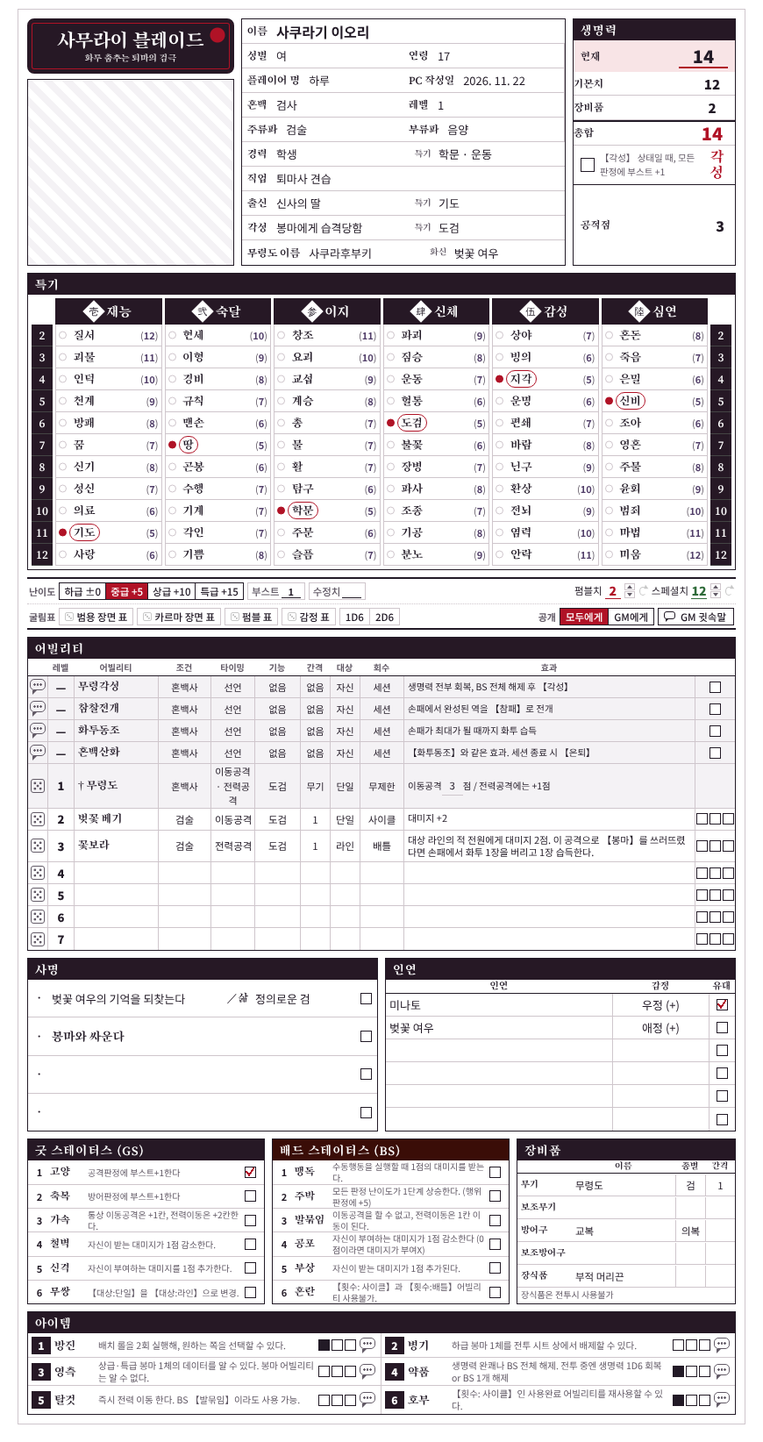
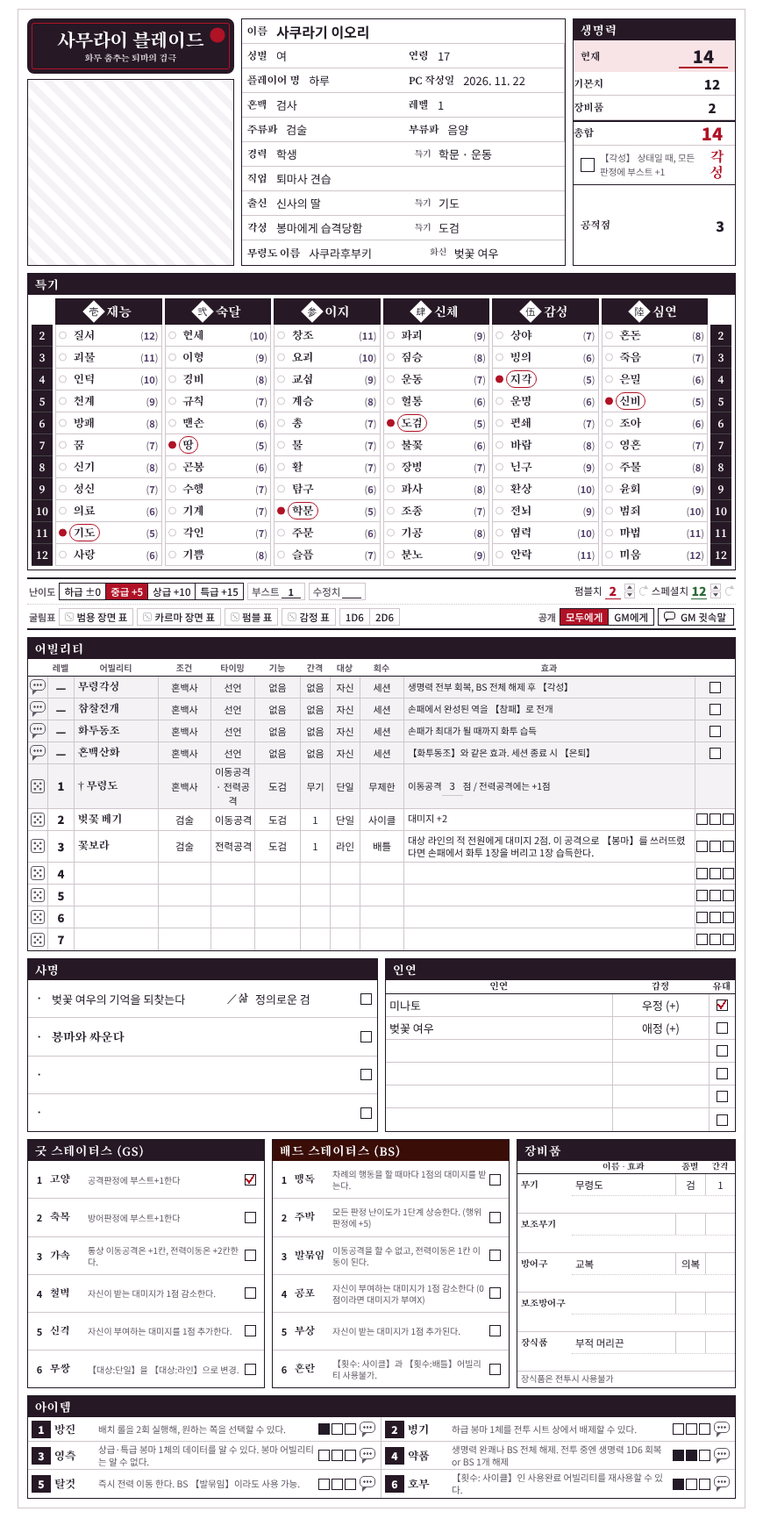
Samurai Blade: match the rulebook character sheet (pp.113-144)
- Life base follows the level (p.113); equipment rows get the effect field of the official sheet
- Bad status poison wording: on each turn action (手番の行動)
- Blade attack asks move or full attack and shows the damage (full +1, Divine Strike +1, Fear -1, never below 0); the weapon type is the skill when the skill field is empty (p.142)
- OPEN_QUESTIONS: the check rules (sixes, boost, special/fumble, defense) still need the rules pages; tests 49 pass

Claude-Session: https://claude.ai/code/session_0199V9dAANERLdNjnvpJJAzb

Changed region(s): [[0.031, 0.0, 0.9621, 0.9927]]

diff --git a/samuraiblade/roll20/sheet/samuraiblade.html b/samuraiblade/roll20/sheet/samuraiblade.html
@@ -132,7 +132,7 @@
 <div class="sr2"><i>6</i><b>무쌍</b><span>【대상:단일】을 【대상:라인】으로 변경.</span><input type="checkbox" class="ck" name="attr_gs6" value="1" title="무쌍"></div>
     </div></div>
     <div class="bx st bs"><div class="hb">배드 스테이터스 (BS)</div><div class="rows">
-<div class="sr2"><i>1</i><b>맹독</b><span>수동행동을 실행할 때 1점의 대미지를 받는다.</span><input type="checkbox" class="ck" name="attr_bs1" value="1" title="맹독"></div>
+<div class="sr2"><i>1</i><b>맹독</b><span>차례의 행동을 할 때마다 1점의 대미지를 받는다.</span><input type="checkbox" class="ck" name="attr_bs1" value="1" title="맹독"></div>
 <div class="sr2"><i>2</i><b>주박</b><span>모든 판정 난이도가 1단계 상승한다. (행위판정에 +5)</span><input type="checkbox" class="ck" name="attr_bs2" value="1" title="주박"></div>
 <div class="sr2"><i>3</i><b>발묶임</b><span>이동공격을 할 수 없고, 전력이동은 1칸 이동이 된다.</span><input type="checkbox" class="ck" name="attr_bs3" value="1" title="발묶임"></div>
 <div class="sr2"><i>4</i><b>공포</b><span>자신이 부여하는 대미지가 1점 감소한다 (0점이라면 대미지가 부여X)</span><input type="checkbox" class="ck" name="attr_bs4" value="1" title="공포"></div>
@@ -141,12 +141,12 @@
     </div></div>
     <div class="bx eq">
       <div class="hb">장비품</div>
-      <div class="qh"><span></span><span>이름</span><span>종별</span><span>간격</span></div>
-<div class="qr"><b>무기</b><input type="text" name="attr_eq1_name" title="무기"><input type="text" class="s" name="attr_eq1_type" title="종별"><input type="text" class="s" name="attr_eq1_range" title="간격"></div>
-<div class="qr"><b>보조무기</b><input type="text" name="attr_eq2_name" title="보조무기"><input type="text" class="s" name="attr_eq2_type" title="종별"><input type="text" class="s" name="attr_eq2_range" title="간격"></div>
-<div class="qr"><b>방어구</b><input type="text" name="attr_eq3_name" title="방어구"><input type="text" class="s" name="attr_eq3_type" title="종별"><input type="text" class="s" name="attr_eq3_range" title="간격"></div>
-<div class="qr"><b>보조방어구</b><input type="text" name="attr_eq4_name" title="보조방어구"><input type="text" class="s" name="attr_eq4_type" title="종별"><input type="text" class="s" name="attr_eq4_range" title="간격"></div>
-<div class="qr"><b>장식품</b><input type="text" name="attr_eq5_name" title="장식품"><input type="text" class="s" name="attr_eq5_type" title="종별"><input type="text" class="s" name="attr_eq5_range" title="간격"></div>
+      <div class="qh"><span></span><span>이름 · 효과</span><span>종별</span><span>간격</span></div>
+<div class="qr"><b>무기</b><input type="text" name="attr_eq1_name" title="무기"><input type="text" class="s" name="attr_eq1_type" title="종별"><input type="text" class="s" name="attr_eq1_range" title="간격"><input type="text" class="ef" name="attr_eq1_effect" title="무기 효과"></div>
+<div class="qr"><b>보조무기</b><input type="text" name="attr_eq2_name" title="보조무기"><input type="text" class="s" name="attr_eq2_type" title="종별"><input type="text" class="s" name="attr_eq2_range" title="간격"><input type="text" class="ef" name="attr_eq2_effect" title="보조무기 효과"></div>
+<div class="qr"><b>방어구</b><input type="text" name="attr_eq3_name" title="방어구"><input type="text" class="s" name="attr_eq3_type" title="종별"><input type="text" class="s" name="attr_eq3_range" title="간격"><input type="text" class="ef" name="attr_eq3_effect" title="방어구 효과"></div>
+<div class="qr"><b>보조방어구</b><input type="text" name="attr_eq4_name" title="보조방어구"><input type="text" class="s" name="attr_eq4_type" title="종별"><input type="text" class="s" name="attr_eq4_range" title="간격"><input type="text" class="ef" name="attr_eq4_effect" title="보조방어구 효과"></div>
+<div class="qr"><b>장식품</b><input type="text" name="attr_eq5_name" title="장식품"><input type="text" class="s" name="attr_eq5_type" title="종별"><input type="text" class="s" name="attr_eq5_range" title="간격"><input type="text" class="ef" name="attr_eq5_effect" title="장식품 효과"></div>
 <div class="qr qn">장식품은 전투시 사용불가</div>
     </div>
   </div>
@@ -167,6 +167,7 @@
 <!-- 채팅 카드: 화투패 모양. 흰 바탕 · 먹보라 테 · 안쪽 진홍 테 · 머리띠 오른쪽 붉은 해 · 명조 제목 · 겹테 주사위 · 낙관 도장.
      굴림은 sheet worker 가 startRoll 로 보내고 computed:: 칸은 finishRoll 로 채운다. computed 칸(ok · total · tres)은 매크로 앞쪽.
      판정: d1 · d2 (+ 부스트 d3~d8) + add = total | 도장 ok 1 스페셜 · 2 펌블 · 3 성공 · 4 실패 (0 이면 도장 없음)
+     무령도: dmg (dkind 이동공격 / 전력공격, dhow 계산) — 전력공격 +1, GS 신격 +1, BS 공포 −1 (0 이면 대미지 없음).
      표: te1(~te2) 와 결과(tres). nD6: n1~n2 = total. -->
 <rolltemplate class="sheet-rolltemplate-samuraiblade">
   <div class="sheet-card">
@@ -176,6 +177,7 @@
       {{#d1}}<div class="sheet-roll sheet-big"><span class="sheet-die">{{d1}}</span><span class="sheet-die">{{d2}}</span>{{#d3}}<span class="sheet-die">{{d3}}</span>{{/d3}}{{#d4}}<span class="sheet-die">{{d4}}</span>{{/d4}}{{#d5}}<span class="sheet-die">{{d5}}</span>{{/d5}}{{#d6}}<span class="sheet-die">{{d6}}</span>{{/d6}}{{#d7}}<span class="sheet-die">{{d7}}</span>{{/d7}}{{#d8}}<span class="sheet-die">{{d8}}</span>{{/d8}}{{#add}}<span class="sheet-eq">{{add}}</span>{{/add}}<span class="sheet-eq">=</span><span class="sheet-tot">{{computed::total}}</span>{{#rollTotal() computed::ok 1}}<span class="sheet-stp sheet-spc">스페셜</span>{{/rollTotal() computed::ok 1}}{{#rollTotal() computed::ok 2}}<span class="sheet-stp sheet-fb">펌블</span>{{/rollTotal() computed::ok 2}}{{#rollTotal() computed::ok 3}}<span class="sheet-stp">성공</span>{{/rollTotal() computed::ok 3}}{{#rollTotal() computed::ok 4}}<span class="sheet-stp sheet-ng">실패</span>{{/rollTotal() computed::ok 4}}</div>{{/d1}}
       {{#te1}}<div class="sheet-rt"><span class="sheet-die">{{te1}}</span>{{#te2}}<span class="sheet-die">{{te2}}</span>{{/te2}}<span class="sheet-rtx">{{computed::tres}}</span></div>{{/te1}}
       {{#n1}}<div class="sheet-roll"><span class="sheet-die">{{n1}}</span>{{#n2}}<span class="sheet-die">{{n2}}</span>{{/n2}}<span class="sheet-eq">=</span><span class="sheet-tot">{{computed::total}}</span></div>{{/n1}}
+      {{#dmg}}<div class="sheet-dmg">{{computed::dkind}} 대미지<b>{{computed::dmg}}</b>점{{#dhow}} <span class="sheet-sub">{{computed::dhow}}</span>{{/dhow}}</div>{{/dmg}}
       {{#note}}<div class="sheet-note">{{note}}</div>{{/note}}
       {{#eff}}<div class="sheet-eff">{{eff}}</div>{{/eff}}
       {{#plain}}<div class="sheet-plain">{{plain}}</div>{{/plain}}
@@ -225,7 +227,8 @@ const calcTargets = () => getAttrs(SKILL_IDS, v => {
 });
 on([...SKILL_IDS.map(k => `change:${k.toLowerCase()}`), 'sheet:opened'].join(' '), calcTargets);
 
-// ── 생명력 총합 = 기본치 + 장비품
+// ── 생명력 기본치 = 레벨 (룰북 113쪽 ⑨, 레벨이 바뀌면 다시 맞춤 · 그 뒤 손으로 고쳐도 됨) · 총합 = 기본치 + 장비품
+on('change:level', () => getAttrs(['level'], v => { const lv = num(v.level); if (lv != null) setAttrs({ hp_base: lv }); }));
 on('change:hp_base change:hp_equip sheet:opened', () => getAttrs(['hp_base', 'hp_equip'], v => {
   const b = num(v.hp_base), e = num(v.hp_equip);
   setAttrs({ hp_max: b == null && e == null ? '' : (b || 0) + (e || 0) }, { silent: true });
@@ -267,7 +270,8 @@ const withCtx = (extra, cb) => getAttrs([...CTX, ...extra], v => cb(v, targets(v
 
 // 판정: 2D6 + 부스트 1 마다 1D6, 모두 더함. 처음 두 주사위 합 ≥ 스페셜치 → 스페셜, ≤ 펌블치 → 펌블, 아니면 합 + 수정이 목표치 이상이면 성공.
 // 목표치 = 기본 목표치 + 난이도 (BS 주박이면 한 단계 위). 【각성】 부스트 +1, 공격(타이밍에 '공격') 때 GS 고양 부스트 +1
-function check(v, T, { title, id, attack = false, eff, head }) {
+//   blade: 무령도 공격 — 이동 / 전력을 묻고 대미지를 계산 (dmg · dkind · dhow)
+function check(v, T, { title, id, attack = false, eff, head, blade }) {
   const p = pos(id), base = T[id];
   const sel = [0, 5, 10, 15].includes(num(v.dif)) ? num(v.dif) : 0, curse = on1(v.bs2) ? 5 : 0, dif = Math.min(15, sel + curse);
   const boost = Math.max(0, num(v.boost) || 0) + (on1(v.awakened) ? 1 : 0) + (attack && on1(v.gs1) ? 1 : 0);
@@ -276,10 +280,21 @@ function check(v, T, { title, id, attack = false, eff, head }) {
     fb !== 2 && `펌블치 ${fb}`, sp !== 12 && `스페셜치 ${sp}`].filter(Boolean).join(' · ');
   const notes = [curse && 'BS 주박 · 난이도 한 단계 위', on1(v.awakened) && '각성 · 부스트 +1', attack && on1(v.gs1) && 'GS 고양 · 부스트 +1'].filter(Boolean).join(' / ');
   const ks = Array.from({ length: nd }, (_, i) => `d${i + 1}`);
-  const s = `${prefix(v)}${TPL} {{ok=[[0]]}} {{total=[[0]]}} ${ks.map(k => `{{${k}=[[1d6]]}}`).join(' ')}${m ? field('add', sgn(m)) : ''}${field('title', title)}${field('sub', sub)}${field('note', notes)}${field('eff', eff)}`;
+  const bq = blade ? ' {{dmg=[[0]]}} {{dkind=[[0]]}} {{dhow=[[0]]}} {{full=[[?{공격|이동공격,0|전력공격 (대미지 +1),1}]]}}' : '';
+  const s = `${prefix(v)}${TPL} {{ok=[[0]]}} {{total=[[0]]}}${bq} ${ks.map(k => `{{${k}=[[1d6]]}}`).join(' ')}${m ? field('add', sgn(m)) : ''}${field('title', title)}${field('sub', sub)}${field('note', notes)}${field('eff', eff)}`;
   post(s, R => {
     const two = R.d1.result + R.d2.result, tot = ks.reduce((a, k) => a + R[k].result, 0) + m;
-    return { ok: two >= sp ? 1 : two <= fb ? 2 : t == null ? 0 : tot >= t ? 3 : 4, total: tot };
+    const out = { ok: two >= sp ? 1 : two <= fb ? 2 : t == null ? 0 : tot >= t ? 3 : 4, total: tot };
+    if (blade) {
+      const full = R.full.result === 1, parts = [`무기 ${blade.base}`];
+      let d = blade.base + (full ? 1 : 0) + (blade.gs5 ? 1 : 0) - (blade.bs4 ? 1 : 0);
+      if (full) parts.push('전력 +1');
+      if (blade.gs5) parts.push('GS 신격 +1');
+      if (blade.bs4) parts.push('BS 공포 −1');
+      d = Math.max(0, d);
+      Object.assign(out, { dmg: d, dkind: full ? '전력공격' : '이동공격', dhow: parts.length > 1 ? `(${parts.join(' ')})` : '' });
+    }
+    return out;
   });
 }
 
@@ -300,10 +315,12 @@ for (let lv = 2; lv <= 7; lv++) {
     check(v, T, { title: `【${nm}】`, id: s.id, attack: /공격/.test(tim), eff: v[`ab${lv}_effect`], head: [tim, `《${sk}》`].filter(Boolean).join(' · ') });
   }));
 }
-on('clicked:mr', () => withCtx(['mr_skill', 'mr_dmg'], (v, T) => {
-  const sk = (v.mr_skill || '').replace(/[《》]/g, '').trim(), s = findSkill(sk), d = (v.mr_dmg || '').trim(), eff = `이동공격 ${d || '　'}점 / 전력공격에는 +1점`;
+// 【† 무령도】 (룰북 142쪽): 장비한 무령도의 【종별】 특기로 공격 — 기능 칸이 비면 장비품 「무기」의 종별을 쓴다.
+//   이동공격은 무령도 대미지, 전력공격은 +1점
+on('clicked:mr', () => withCtx(['mr_skill', 'mr_dmg', 'eq1_type', 'gs5', 'bs4'], (v, T) => {
+  const sk = ((v.mr_skill || '').trim() || (v.eq1_type || '').trim()).replace(/[《》]/g, ''), s = findSkill(sk), d = (v.mr_dmg || '').trim(), eff = `이동공격 ${d || '　'}점 / 전력공격에는 +1점`;
   if (!s) return info(v, { title: '【† 무령도】', sub: '이동공격 · 전력공격', eff });
-  check(v, T, { title: '【† 무령도】', id: s.id, attack: true, eff, head: `이동공격 · 전력공격 · 《${sk}》` });
+  check(v, T, { title: '【† 무령도】', id: s.id, attack: true, eff, head: `이동공격 · 전력공격 · 《${sk}》`, blade: { base: Math.max(0, num(d) || 0), gs5: on1(v.gs5), bs4: on1(v.bs4) } });
 }));
 PRINTED.forEach(([n, cond, tim, tgt, cnt, ef], i) => on(`clicked:pab${i + 1}`, () => getAttrs(['roll_display_to'], v => info(v, { title: `【${n}】`, sub: `조건 ${cond} · 타이밍 ${tim} · 대상 ${tgt} · 회수 ${cnt}`, eff: ef }))));
 

diff --git a/samuraiblade/roll20/src/worker.js b/samuraiblade/roll20/src/worker.js
@@ -40,7 +40,8 @@ const calcTargets = () => getAttrs(SKILL_IDS, v => {
 });
 on([...SKILL_IDS.map(k => `change:${k.toLowerCase()}`), 'sheet:opened'].join(' '), calcTargets);
 
-// ── 생명력 총합 = 기본치 + 장비품
+// ── 생명력 기본치 = 레벨 (룰북 113쪽 ⑨, 레벨이 바뀌면 다시 맞춤 · 그 뒤 손으로 고쳐도 됨) · 총합 = 기본치 + 장비품
+on('change:level', () => getAttrs(['level'], v => { const lv = num(v.level); if (lv != null) setAttrs({ hp_base: lv }); }));
 on('change:hp_base change:hp_equip sheet:opened', () => getAttrs(['hp_base', 'hp_equip'], v => {
   const b = num(v.hp_base), e = num(v.hp_equip);
   setAttrs({ hp_max: b == null && e == null ? '' : (b || 0) + (e || 0) }, { silent: true });
@@ -82,7 +83,8 @@ const withCtx = (extra, cb) => getAttrs([...CTX, ...extra], v => cb(v, targets(v
 
 // 판정: 2D6 + 부스트 1 마다 1D6, 모두 더함. 처음 두 주사위 합 ≥ 스페셜치 → 스페셜, ≤ 펌블치 → 펌블, 아니면 합 + 수정이 목표치 이상이면 성공.
 // 목표치 = 기본 목표치 + 난이도 (BS 주박이면 한 단계 위). 【각성】 부스트 +1, 공격(타이밍에 '공격') 때 GS 고양 부스트 +1
-function check(v, T, { title, id, attack = false, eff, head }) {
+//   blade: 무령도 공격 — 이동 / 전력을 묻고 대미지를 계산 (dmg · dkind · dhow)
+function check(v, T, { title, id, attack = false, eff, head, blade }) {
   const p = pos(id), base = T[id];
   const sel = [0, 5, 10, 15].includes(num(v.dif)) ? num(v.dif) : 0, curse = on1(v.bs2) ? 5 : 0, dif = Math.min(15, sel + curse);
   const boost = Math.max(0, num(v.boost) || 0) + (on1(v.awakened) ? 1 : 0) + (attack && on1(v.gs1) ? 1 : 0);
@@ -91,10 +93,21 @@ function check(v, T, { title, id, attack = false, eff, head }) {
     fb !== 2 && `펌블치 ${fb}`, sp !== 12 && `스페셜치 ${sp}`].filter(Boolean).join(' · ');
   const notes = [curse && 'BS 주박 · 난이도 한 단계 위', on1(v.awakened) && '각성 · 부스트 +1', attack && on1(v.gs1) && 'GS 고양 · 부스트 +1'].filter(Boolean).join(' / ');
   const ks = Array.from({ length: nd }, (_, i) => `d${i + 1}`);
-  const s = `${prefix(v)}${TPL} {{ok=[[0]]}} {{total=[[0]]}} ${ks.map(k => `{{${k}=[[1d6]]}}`).join(' ')}${m ? field('add', sgn(m)) : ''}${field('title', title)}${field('sub', sub)}${field('note', notes)}${field('eff', eff)}`;
+  const bq = blade ? ' {{dmg=[[0]]}} {{dkind=[[0]]}} {{dhow=[[0]]}} {{full=[[?{공격|이동공격,0|전력공격 (대미지 +1),1}]]}}' : '';
+  const s = `${prefix(v)}${TPL} {{ok=[[0]]}} {{total=[[0]]}}${bq} ${ks.map(k => `{{${k}=[[1d6]]}}`).join(' ')}${m ? field('add', sgn(m)) : ''}${field('title', title)}${field('sub', sub)}${field('note', notes)}${field('eff', eff)}`;
   post(s, R => {
     const two = R.d1.result + R.d2.result, tot = ks.reduce((a, k) => a + R[k].result, 0) + m;
-    return { ok: two >= sp ? 1 : two <= fb ? 2 : t == null ? 0 : tot >= t ? 3 : 4, total: tot };
+    const out = { ok: two >= sp ? 1 : two <= fb ? 2 : t == null ? 0 : tot >= t ? 3 : 4, total: tot };
+    if (blade) {
+      const full = R.full.result === 1, parts = [`무기 ${blade.base}`];
+      let d = blade.base + (full ? 1 : 0) + (blade.gs5 ? 1 : 0) - (blade.bs4 ? 1 : 0);
+      if (full) parts.push('전력 +1');
+      if (blade.gs5) parts.push('GS 신격 +1');
+      if (blade.bs4) parts.push('BS 공포 −1');
+      d = Math.max(0, d);
+      Object.assign(out, { dmg: d, dkind: full ? '전력공격' : '이동공격', dhow: parts.length > 1 ? `(${parts.join(' ')})` : '' });
+    }
+    return out;
   });
 }
 
@@ -115,10 +128,12 @@ for (let lv = 2; lv <= 7; lv++) {
     check(v, T, { title: `【${nm}】`, id: s.id, attack: /공격/.test(tim), eff: v[`ab${lv}_effect`], head: [tim, `《${sk}》`].filter(Boolean).join(' · ') });
   }));
 }
-on('clicked:mr', () => withCtx(['mr_skill', 'mr_dmg'], (v, T) => {
-  const sk = (v.mr_skill || '').replace(/[《》]/g, '').trim(), s = findSkill(sk), d = (v.mr_dmg || '').trim(), eff = `이동공격 ${d || '　'}점 / 전력공격에는 +1점`;
+// 【† 무령도】 (룰북 142쪽): 장비한 무령도의 【종별】 특기로 공격 — 기능 칸이 비면 장비품 「무기」의 종별을 쓴다.
+//   이동공격은 무령도 대미지, 전력공격은 +1점
+on('clicked:mr', () => withCtx(['mr_skill', 'mr_dmg', 'eq1_type', 'gs5', 'bs4'], (v, T) => {
+  const sk = ((v.mr_skill || '').trim() || (v.eq1_type || '').trim()).replace(/[《》]/g, ''), s = findSkill(sk), d = (v.mr_dmg || '').trim(), eff = `이동공격 ${d || '　'}점 / 전력공격에는 +1점`;
   if (!s) return info(v, { title: '【† 무령도】', sub: '이동공격 · 전력공격', eff });
-  check(v, T, { title: '【† 무령도】', id: s.id, attack: true, eff, head: `이동공격 · 전력공격 · 《${sk}》` });
+  check(v, T, { title: '【† 무령도】', id: s.id, attack: true, eff, head: `이동공격 · 전력공격 · 《${sk}》`, blade: { base: Math.max(0, num(d) || 0), gs5: on1(v.gs5), bs4: on1(v.bs4) } });
 }));
 PRINTED.forEach(([n, cond, tim, tgt, cnt, ef], i) => on(`clicked:pab${i + 1}`, () => getAttrs(['roll_display_to'], v => info(v, { title: `【${n}】`, sub: `조건 ${cond} · 타이밍 ${tim} · 대상 ${tgt} · 회수 ${cnt}`, eff: ef }))));
 

diff --git a/samuraiblade/roll20/src/rolltemplate.html b/samuraiblade/roll20/src/rolltemplate.html
@@ -1,6 +1,7 @@
 <!-- 채팅 카드: 화투패 모양. 흰 바탕 · 먹보라 테 · 안쪽 진홍 테 · 머리띠 오른쪽 붉은 해 · 명조 제목 · 겹테 주사위 · 낙관 도장.
      굴림은 sheet worker 가 startRoll 로 보내고 computed:: 칸은 finishRoll 로 채운다. computed 칸(ok · total · tres)은 매크로 앞쪽.
      판정: d1 · d2 (+ 부스트 d3~d8) + add = total | 도장 ok 1 스페셜 · 2 펌블 · 3 성공 · 4 실패 (0 이면 도장 없음)
+     무령도: dmg (dkind 이동공격 / 전력공격, dhow 계산) — 전력공격 +1, GS 신격 +1, BS 공포 −1 (0 이면 대미지 없음).
      표: te1(~te2) 와 결과(tres). nD6: n1~n2 = total. -->
 <rolltemplate class="sheet-rolltemplate-samuraiblade">
   <div class="sheet-card">
@@ -10,6 +11,7 @@
       {{#d1}}<div class="sheet-roll sheet-big"><span class="sheet-die">{{d1}}</span><span class="sheet-die">{{d2}}</span>{{#d3}}<span class="sheet-die">{{d3}}</span>{{/d3}}{{#d4}}<span class="sheet-die">{{d4}}</span>{{/d4}}{{#d5}}<span class="sheet-die">{{d5}}</span>{{/d5}}{{#d6}}<span class="sheet-die">{{d6}}</span>{{/d6}}{{#d7}}<span class="sheet-die">{{d7}}</span>{{/d7}}{{#d8}}<span class="sheet-die">{{d8}}</span>{{/d8}}{{#add}}<span class="sheet-eq">{{add}}</span>{{/add}}<span class="sheet-eq">=</span><span class="sheet-tot">{{computed::total}}</span>{{#rollTotal() computed::ok 1}}<span class="sheet-stp sheet-spc">스페셜</span>{{/rollTotal() computed::ok 1}}{{#rollTotal() computed::ok 2}}<span class="sheet-stp sheet-fb">펌블</span>{{/rollTotal() computed::ok 2}}{{#rollTotal() computed::ok 3}}<span class="sheet-stp">성공</span>{{/rollTotal() computed::ok 3}}{{#rollTotal() computed::ok 4}}<span class="sheet-stp sheet-ng">실패</span>{{/rollTotal() computed::ok 4}}</div>{{/d1}}
       {{#te1}}<div class="sheet-rt"><span class="sheet-die">{{te1}}</span>{{#te2}}<span class="sheet-die">{{te2}}</span>{{/te2}}<span class="sheet-rtx">{{computed::tres}}</span></div>{{/te1}}
       {{#n1}}<div class="sheet-roll"><span class="sheet-die">{{n1}}</span>{{#n2}}<span class="sheet-die">{{n2}}</span>{{/n2}}<span class="sheet-eq">=</span><span class="sheet-tot">{{computed::total}}</span></div>{{/n1}}
+      {{#dmg}}<div class="sheet-dmg">{{computed::dkind}} 대미지<b>{{computed::dmg}}</b>점{{#dhow}} <span class="sheet-sub">{{computed::dhow}}</span>{{/dhow}}</div>{{/dmg}}
       {{#note}}<div class="sheet-note">{{note}}</div>{{/note}}
       {{#eff}}<div class="sheet-eff">{{eff}}</div>{{/eff}}
       {{#plain}}<div class="sheet-plain">{{plain}}</div>{{/plain}}

diff --git a/samuraiblade/roll20/test/test.js b/samuraiblade/roll20/test/test.js
@@ -29,6 +29,10 @@ const g = (s, ...ks) => ks.map(k => String(s.get(k)));
   // ── 생명력 총합
   s.set('hp_base', '12'); s.set('hp_equip', '2'); await s.settle();
   eq('hp total', g(s, 'hp_max'), ['14']);
+  s.set('level', '7'); await s.settle();
+  eq('level → life base (p.113)', g(s, 'hp_base', 'hp_max'), ['7', '9']);
+  eq('equipment effect fields', (HTML.match(/name="attr_eq\d_effect"/g) || []).length, 5);
+  eq('poison wording', /차례의 행동을 할 때마다 1점의 대미지/.test(HTML), true);
 
   // ── 판정: 난이도 · 부스트 · 각성 · 주박 · 고양
   s = makeSim(HTML, { dice: [5, 4, 3, 1, 1, 6, 6, 2, 3, 3, 3, 3, 4, 4, 4] }); s.open(); await s.settle();
@@ -89,6 +93,18 @@ const g = (s, ...ks) => ks.map(k => String(s.get(k)));
   s.click('nd2'); await s.settle();
   eq('2D6', last(s).computed, { total: 6 });
   eq('gm whisper roll button', /name="roll_gmw"[^>]*value="\/w gm &\{template:samuraiblade\} \{\{plain=\?\{GM 에게 귓속말\}\}\}"/.test(HTML), true);
+
+  // ── 무령도 (142쪽): 기능이 비면 무기 종별 · 이동/전력 · 신격/공포
+  s = makeSim(HTML, { dice: [4, 4, 3, 3], queries: { '공격': '1' } }); s.open(); await s.settle();
+  s.set('D6', '1'); s.set('eq1_type', '도검'); s.set('mr_dmg', '2'); s.set('gs5', '1'); await s.settle();
+  s.click('mr'); await s.settle();
+  has('blade falls back to weapon type', last(s).macro, '《도검》');
+  has('blade computed first', last(s).macro, '{{ok=[[0]]}} {{total=[[0]]}} {{dmg=[[0]]}} {{dkind=[[0]]}} {{dhow=[[0]]}} {{full=[[?{공격|이동공격,0|전력공격 (대미지 +1),1}]]}}');
+  eq('full attack 2 +1 +1', [last(s).computed.dmg, last(s).computed.dkind, last(s).computed.dhow], [4, '전력공격', '(무기 2 전력 +1 GS 신격 +1)']);
+  s = makeSim(HTML, { dice: [4, 4], queries: { '공격': '0' } }); s.open(); await s.settle();
+  s.set('D6', '1'); s.set('mr_skill', '도검'); s.set('mr_dmg', '1'); s.set('bs4', '1'); await s.settle();
+  s.click('mr'); await s.settle();
+  eq('move attack 1 −1 = 0', [last(s).computed.dmg, last(s).computed.dkind], [0, '이동공격']);
 
   const errs = s.log.filter(l => l[0] === 'ERROR');
   eq('no worker errors', errs.map(e => e[1].split('\n')[0]), []);

diff --git a/samuraiblade/roll20/sheet/samuraiblade.css b/samuraiblade/roll20/sheet/samuraiblade.css
@@ -35,6 +35,9 @@
 .sheet-rolltemplate-samuraiblade .sheet-rt .sheet-die{flex:none}
 .sheet-rolltemplate-samuraiblade .sheet-rtx{flex:1;min-width:0;font:500 12px/1.5 'Noto Sans KR',sans-serif}
 .sheet-rolltemplate-samuraiblade .sheet-note{font:400 12px/1.45 'Song Myung',serif;color:var(--accent)}
+.sheet-rolltemplate-samuraiblade .sheet-dmg{font:400 13px/1.45 'Song Myung',serif}
+.sheet-rolltemplate-samuraiblade .sheet-dmg b{font:700 20px/1 'Song Myung',serif;color:var(--accent);margin:0 3px}
+.sheet-rolltemplate-samuraiblade .sheet-dmg .inlinerollresult{display:inline;padding:0;margin:0;border:0;background:none;color:inherit;font:inherit}
 .sheet-rolltemplate-samuraiblade.sheet-rolltemplate-darkmode .sheet-note{color:#e2566a}
 .sheet-rolltemplate-samuraiblade .sheet-eff{background:var(--cell);padding:6px 7px;font-size:12px;line-height:1.5;border-radius:3px;white-space:pre-wrap}
 .sheet-rolltemplate-samuraiblade .sheet-plain{white-space:pre-wrap}
@@ -213,6 +216,7 @@ body.sheet-darkmode .sbd input[type=text],body.sheet-darkmode .sbd input[type=nu
 .sbd .eq .qr b{font:400 11.5px var(--head);padding-left:4px}
 .sbd .eq .qr input[type=text]{height:24px;font-size:11.5px}
 .sbd .eq .qr input[type=text].s{text-align:center;border-left:1px solid var(--line)}
+.sbd .eq .qr input[type=text].ef{grid-column:2/-1;height:20px;font-size:10.5px;color:var(--sub);border-top:1px dotted var(--line)}
 .sbd .eq .qr.qn{display:block;border-bottom:0;font-size:10px;color:var(--sub);padding:0 4px;min-height:18px}
 
 /* row 6: items, count boxes filled black up to the value (hidden attribute mirror, rules generated) */

diff --git a/samuraiblade/roll20/src/samuraiblade.src.css b/samuraiblade/roll20/src/samuraiblade.src.css
@@ -35,6 +35,9 @@
 .sheet-rolltemplate-samuraiblade .sheet-rt .sheet-die{flex:none}
 .sheet-rolltemplate-samuraiblade .sheet-rtx{flex:1;min-width:0;font:500 12px/1.5 'Noto Sans KR',sans-serif}
 .sheet-rolltemplate-samuraiblade .sheet-note{font:400 12px/1.45 'Song Myung',serif;color:var(--accent)}
+.sheet-rolltemplate-samuraiblade .sheet-dmg{font:400 13px/1.45 'Song Myung',serif}
+.sheet-rolltemplate-samuraiblade .sheet-dmg b{font:700 20px/1 'Song Myung',serif;color:var(--accent);margin:0 3px}
+.sheet-rolltemplate-samuraiblade .sheet-dmg .inlinerollresult{display:inline;padding:0;margin:0;border:0;background:none;color:inherit;font:inherit}
 .sheet-rolltemplate-samuraiblade.sheet-rolltemplate-darkmode .sheet-note{color:#e2566a}
 .sheet-rolltemplate-samuraiblade .sheet-eff{background:var(--cell);padding:6px 7px;font-size:12px;line-height:1.5;border-radius:3px;white-space:pre-wrap}
 .sheet-rolltemplate-samuraiblade .sheet-plain{white-space:pre-wrap}
@@ -213,6 +216,7 @@ body.sheet-darkmode .sbd input[type=text],body.sheet-darkmode .sbd input[type=nu
 .sbd .eq .qr b{font:400 11.5px var(--head);padding-left:4px}
 .sbd .eq .qr input[type=text]{height:24px;font-size:11.5px}
 .sbd .eq .qr input[type=text].s{text-align:center;border-left:1px solid var(--line)}
+.sbd .eq .qr input[type=text].ef{grid-column:2/-1;height:20px;font-size:10.5px;color:var(--sub);border-top:1px dotted var(--line)}
 .sbd .eq .qr.qn{display:block;border-bottom:0;font-size:10px;color:var(--sub);padding:0 4px;min-height:18px}
 
 /* row 6: items, count boxes filled black up to the value (hidden attribute mirror, rules generated) */

diff --git a/samuraiblade/roll20/src/samuraiblade.src.html b/samuraiblade/roll20/src/samuraiblade.src.html
@@ -105,7 +105,7 @@
     </div></div>
     <div class="bx eq">
       <div class="hb">장비품</div>
-      <div class="qh"><span></span><span>이름</span><span>종별</span><span>간격</span></div>
+      <div class="qh"><span></span><span>이름 · 효과</span><span>종별</span><span>간격</span></div>
 <!--@EQUIP-->
     </div>
   </div>

diff --git a/samuraiblade/roll20/src/build.py b/samuraiblade/roll20/src/build.py
@@ -27,7 +27,7 @@ PRINTED = [('무령각성', '혼백사', '선언', '없음', '없음', '자신',
            ('혼백산화', '혼백사', '선언', '없음', '없음', '자신', '세션', '【화투동조】와 같은 효과. 세션 종료 시 【은퇴】')]
 GS = [('고양', '공격판정에 부스트+1한다'), ('축복', '방어판정에 부스트+1한다'), ('가속', '통상 이동공격은 +1칸, 전력이동은 +2칸한다.'),
       ('철벽', '자신이 받는 대미지가 1점 감소한다.'), ('신격', '자신이 부여하는 대미지를 1점 추가한다.'), ('무쌍', '【대상:단일】을 【대상:라인】으로 변경.')]
-BS = [('맹독', '수동행동을 실행할 때 1점의 대미지를 받는다.'), ('주박', '모든 판정 난이도가 1단계 상승한다. (행위판정에 +5)'),
+BS = [('맹독', '차례의 행동을 할 때마다 1점의 대미지를 받는다.'), ('주박', '모든 판정 난이도가 1단계 상승한다. (행위판정에 +5)'),
       ('발묶임', '이동공격을 할 수 없고, 전력이동은 1칸 이동이 된다.'), ('공포', '자신이 부여하는 대미지가 1점 감소한다 (0점이라면 대미지가 부여X)'),
       ('부상', '자신이 받는 대미지가 1점 추가된다.'), ('혼란', '【횟수: 사이클】과 【횟수:배틀】어빌리티 사용불가.')]
 EQUIP = ['무기', '보조무기', '방어구', '보조방어구', '장식품']
@@ -81,8 +81,10 @@ def status(key, rows):
 
 
 def equip():
+    # 공식 시트: 장비품 · 종별 · 간격 · 효과 (효과는 둘째 줄)
     return '\n'.join(f'<div class="qr"><b>{k}</b><input type="text" name="attr_eq{i}_name" title="{k}"><input type="text" class="s" name="attr_eq{i}_type" title="종별">'
-                     f'<input type="text" class="s" name="attr_eq{i}_range" title="간격"></div>' for i, k in enumerate(EQUIP, 1)) + '\n<div class="qr qn">장식품은 전투시 사용불가</div>'
+                     f'<input type="text" class="s" name="attr_eq{i}_range" title="간격"><input type="text" class="ef" name="attr_eq{i}_effect" title="{k} 효과"></div>'
+                     for i, k in enumerate(EQUIP, 1)) + '\n<div class="qr qn">장식품은 전투시 사용불가</div>'
 
 
 def items():

diff --git a/samuraiblade/roll20/FIELDS.md b/samuraiblade/roll20/FIELDS.md
@@ -8,7 +8,7 @@
 | `konpaku` · `level` · `main_school` · `sub_school` | 혼백 · 레벨 · 주류파 · 부류파 | 글 |
 | `career` · `career_skill` · `job` · `origin` · `origin_skill` | 경력(+특기) · 직업 · 출신(+특기) | 글 |
 | `awaken` · `awaken_skill` · `blade_name` · `incarnation` | 각성(目覚め, +특기) · 무령도 이름 · 화신 | 글 |
-| `hp` · `hp_base` · `hp_equip` · `hp_max` | 생명력 현재 · 기본치 · 장비품 · 총합(워커가 계산) | 숫자 |
+| `hp` · `hp_base` · `hp_equip` · `hp_max` | 생명력 현재 · 기본치(레벨이 바뀌면 레벨로) · 장비품 · 총합(워커가 계산) | 숫자 |
 | `awakened` | 【각성】 상태 (판정 부스트 +1) | `1` / 빈칸 |
 | `merit` | 공적점 | 글 |
 | `A2` … `F12` | 특기 습득 (열 A~F = 재능 · 숙달 · 이지 · 신체 · 감성 · 심연, 줄 2~12) | `1` / 빈칸 |
@@ -21,7 +21,7 @@
 | `mis1` · `life` · `mis3` · `mis4` · `mis1_done` … `mis4_done` | 사명 · 삶 · 달성 | 글 · `1` |
 | `en1`~`en6` `_name` · `_emo` · `_bond` | 인연 · 감정 · 유대 | 글 · `1` |
 | `gs1`~`gs6` · `bs1`~`bs6` | GS (고양 · 축복 · 가속 · 철벽 · 신격 · 무쌍) · BS (맹독 · 주박 · 발묶임 · 공포 · 부상 · 혼란) | `1` / 빈칸 |
-| `eq1`~`eq5` `_name` · `_type` · `_range` | 장비품 (무기 · 보조무기 · 방어구 · 보조방어구 · 장식품) | 글 |
+| `eq1`~`eq5` `_name` · `_type` · `_range` · `_effect` | 장비품 (무기 · 보조무기 · 방어구 · 보조방어구 · 장식품) · 효과 | 글 |
 | `it1`~`it6` `_n` | 아이템 개수 (방진 · 병기 · 영측 · 약품 · 탈것 · 호부) | 0~3 |
 | `fumble_adj` · `special_adj` · `fumble` · `special` | 펌블치 · 스페셜치 손 수정 · 값(워커가 계산) | 숫자 |
 | `roll_display_to` | 공개 범위 | `" "` 모두에게 · `"/w gm "` GM 에게 |

diff --git a/samuraiblade/roll20/OPEN_QUESTIONS.md b/samuraiblade/roll20/OPEN_QUESTIONS.md
@@ -8,3 +8,13 @@
 - 화투(카드)는 시트에 넣지 않았다. 손패 메모 칸이 필요한지 물어볼 것.
 - 용어: 사용자가 준 한국어 캐릭터 시트(TR꿈악어 님 번역)를 따른다 — 특기 1~2 글자, 숙달 · 봉마 · 인연 · 발묶임 · 단일 · 화투 · 기능 · 회수 등.
 - 목표치 상한 12 — 사용자 확인 (2026-11-22): 6 · 6 이면 어차피 성공이라 12 로 둠.
+
+## 룰북 113~144쪽 대조 (캐릭터 작성 · 어빌리티, 2026-11-22)
+- 특기 66칸 · GS · BS · 아이템 · 인쇄된 어빌리티 4줄 · 사명 · 인연 · 생명력 칸은 공식 시트(113쪽)와 같음.
+- 고친 것: 생명력 기본치 = 레벨 (113쪽 ⑨), 장비품 「효과」 칸 추가, BS 맹독 「수동행동」 → 「차례의 행동」 (手番の行動),
+  † 무령도 (142쪽) 이동 / 전력 공격을 묻고 대미지 계산 (전력 +1, GS 신격 +1, BS 공포 −1) · 기능 칸이 비면 무기의 종별을 특기로.
+- **판정 규칙 (아직 못 봄)**: 어빌리티 문구로 보아 스페셜은 「6 의 개수」로 정하는 듯하다 —
+  【회심의 일격】 「스페셜이면 6 의 눈이 하나 더 많은 것으로」, 【운명유전】 「1 의 눈을 모두 6 으로」, 【명경지수】 · 【환영】 · 【승리의 한 수】 「눈 2개를 6 으로」.
+  지금 시트는 「처음 두 주사위 합 12 = 스페셜, 2 = 펌블, 부스트 주사위는 모두 더함」 — 판정 · 부스트 · 스페셜/펌블 · 방어 판정 쪽수를 받아 맞출 것.
+- GS 축복(방어 판정 부스트 +1)은 방어 판정 규칙을 본 뒤 넣는다.
+
